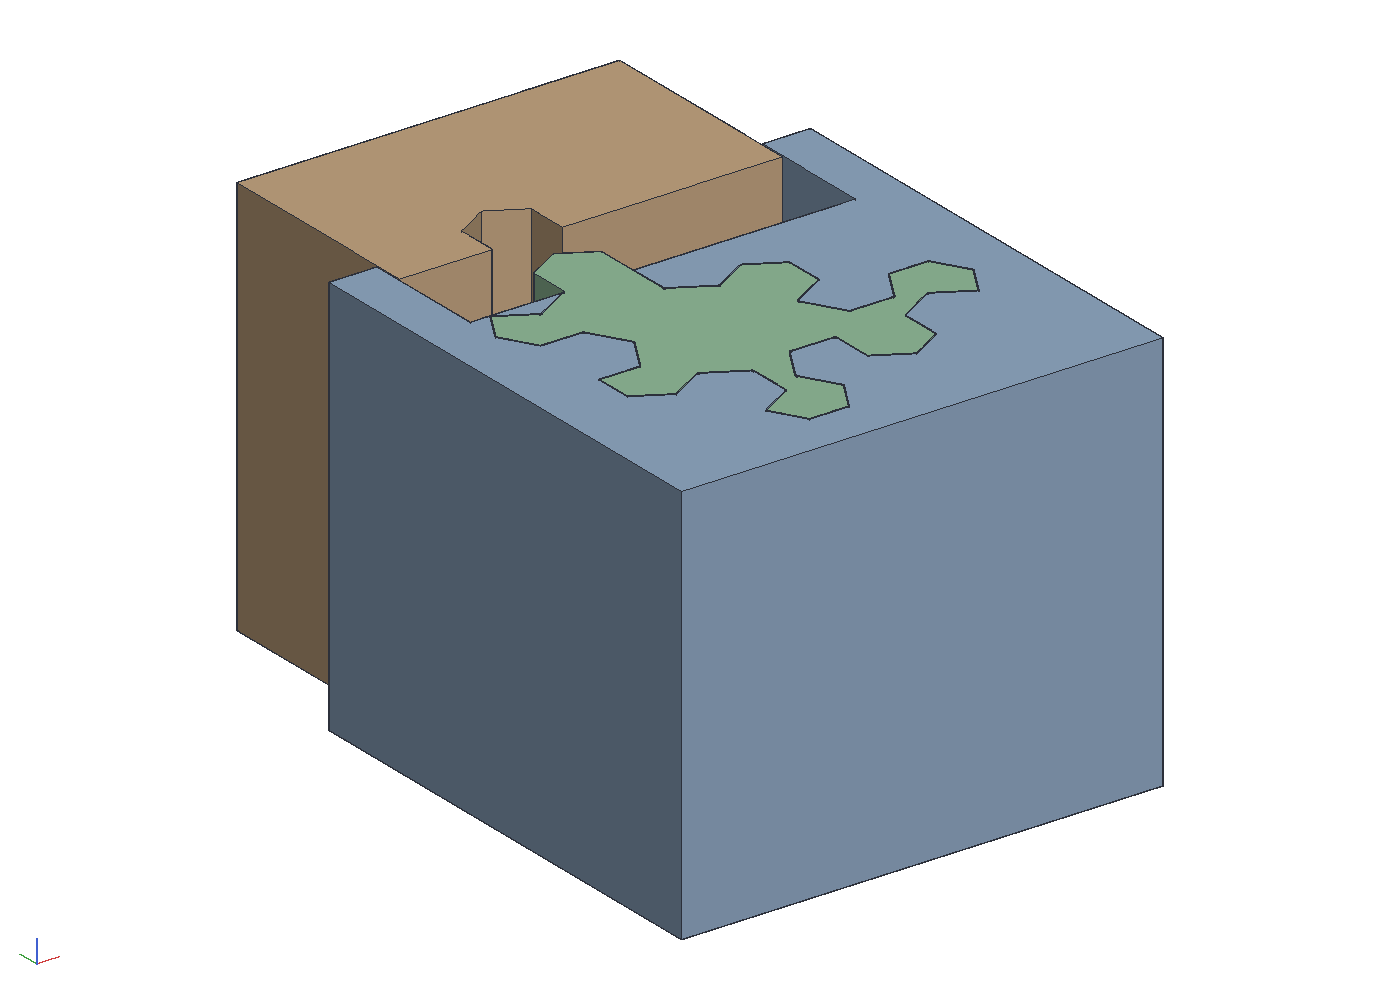
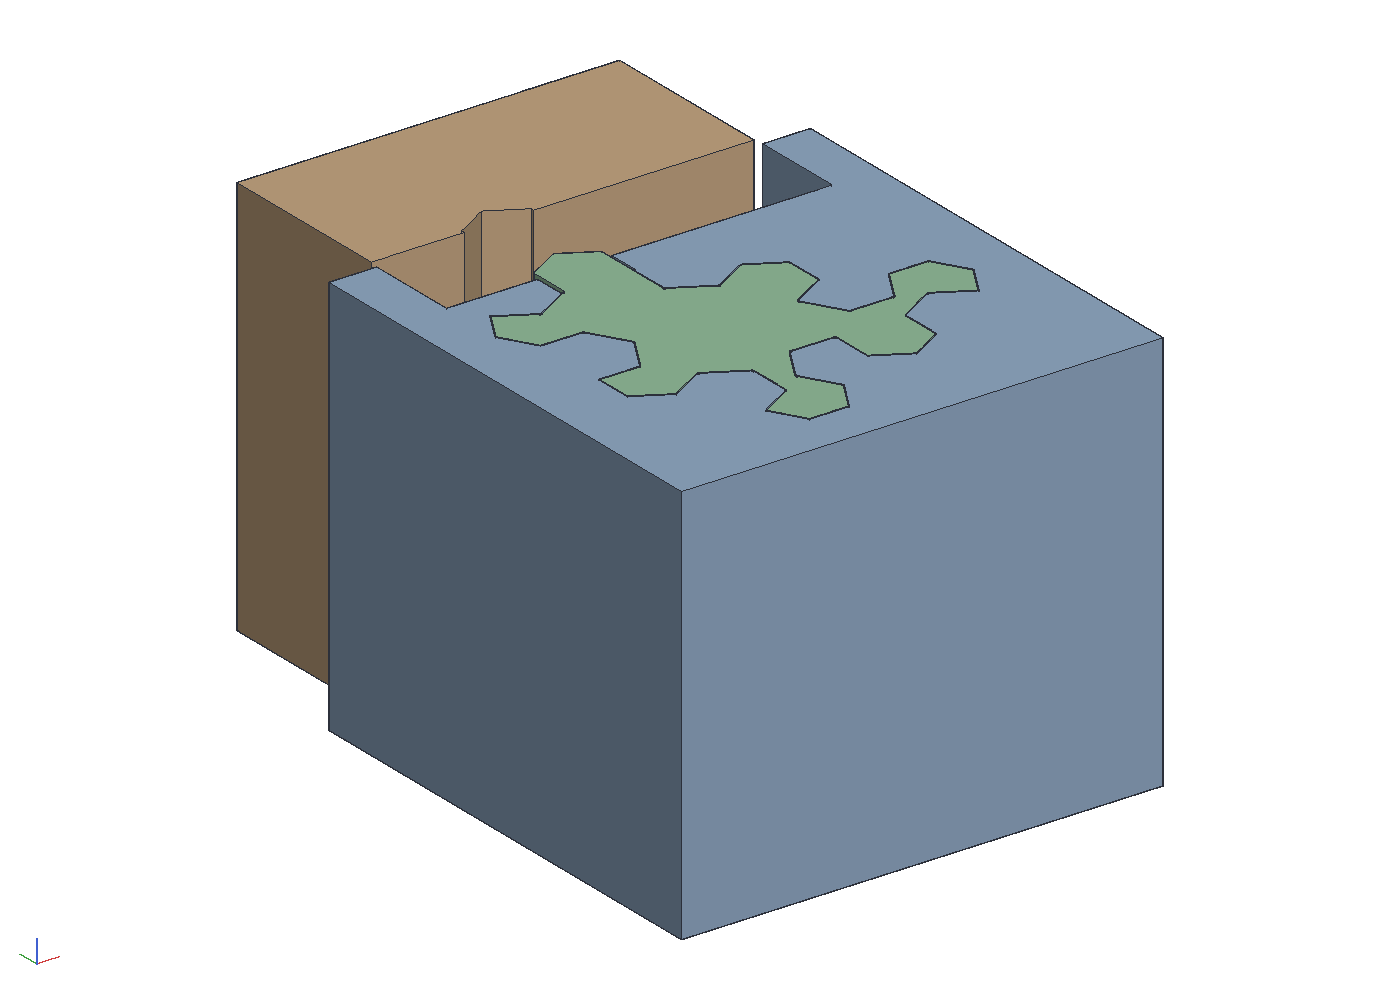
spectre-cauls: shoulders beside the bump so the cradle's lip over a bay is never thin
Measuring the cradle under the plunger's flat found the first cut's
flaw: the slot above the split was the outline's full width, so where
a bay reaches up to just under the split the lip over it was 0.04 mm
thick. The cradle now rises 4 mm above the split in two shoulders
outside the chord, the bump's own sides stand in the slot between
them, and the plunger's flat stops a millimetre above the shoulders
when its notch seats on the bump's roof; that millimetre is its
travel. A tongue on the plunger was tried and dropped: the bump's
sides are vertical for 5.4 mm, so the negative cut it to a fin. The
build refuses a turn whose bump narrows below the flat. The test
measures the lip over every bay outside the chord (4.08 mm now) and
takes the plunger's area from the JSON. README and DECISIONS say why.

Claude-Session: https://claude.ai/code/session_01J4ziSXStmHDedjoitSWECi

Changed region(s): [[0.43, 0.124, 0.6143, 0.279], [0.3071, 0.217, 0.3993, 0.341]]

diff --git a/examples/spectre-cauls/build.py b/examples/spectre-cauls/build.py
@@ -45,6 +45,8 @@ CLEAR = 0.1                                     # the pocket past the tile's out
 PLAY = 0.15                                     # the plunger short of the cradle's walls, each side
 WALL, FLOOR = 6.0, 6.0                          # the cradle round the pocket
 GUIDE = 8.0                                     # the cradle's walls above the bundle's top, which guide the plunger
+SHOULDER = 4.0                                  # outside the chord the cradle rises this far above the split: the lip over a bay is never thin
+FLAT_CLEAR = 1.0                                # the plunger's flat underside stops this far above the shoulders when its notch is seated: its travel
 FLANGE = 12.0                                   # the plunger above the walls when it is down, for the clamps
 LENGTH = 50.0                                   # a short caul; three along a 200 mm stick
 LIFT = 12.0                                     # the lid drawn this far up, off the bundle
@@ -232,26 +234,39 @@ def main():
     mcp.call("create_document", {"name": "cauls"})
     mcp.call("apply", {"ops": [{"type": "rename_document", "name": "Spectre tile stick cauls"}, {"type": "rename_tab", "tab": 1, "name": "Base"}]})
     # The base: a block round the pocket. The pocket is the part of the
-    # outline below the split, exactly, and above the split a slot the
-    # outline's full width with vertical walls, which the lid slides in.
+    # outline below the split, exactly; above the split, between the
+    # chord's ends, a slot the chord wide (plus the play) for the
+    # plunger's tongue; and outside the chord the cradle keeps its
+    # material up to a shoulder, so the lip over a bay just under the
+    # split is never thin; above the shoulders a slot the outline's
+    # full width with vertical walls, which the plunger slides in.
     base = Part(mcp, 1, "Base")
     sk = base.sketch("top", 0.0, "block")
     base.rect(sk, (xlo - WALL, bottom - FLOOR), (xhi + WALL, walls_top))
     base.extrude(sk, LENGTH, name="cradle")
     sk = base.sketch("top", LENGTH + 1.0, "pocket")
     seq = ring(loose, s, lower=True)
-    base.polygon(sk, seq + [(right, s), (xhi, s), (xhi, walls_top + 1.0), (xlo, walls_top + 1.0), (xlo, s), (left, s)])
+    sh = s + SHOULDER
+    base.polygon(sk, seq + [(right, s), (right + PLAY, s), (right + PLAY, sh), (xhi, sh), (xhi, walls_top + 1.0),
+                            (xlo, walls_top + 1.0), (xlo, sh), (left - PLAY, sh), (left - PLAY, s), (left, s)])
     base.cut(sk, LENGTH + 2.0, direction="reverse", name="pocket, through")
     base_bodies = base.bodies()
-    # The lid: a plunger the slot wide less the play, its underside the
-    # negative of the part above the split, which only narrows going
-    # up, so it comes down onto the bundle; beside that it stops a play
-    # above the split, over the base's own material.
+    # The lid: a plunger the slot wide less the play, its flat underside
+    # a millimetre above the shoulders, with the negative of the part
+    # above the split cut into it: that part only narrows going up, so
+    # the plunger comes down onto the bundle. The bump's own sides stand
+    # between the shoulders; its roof is what the plunger seats on, so
+    # the bump must stay the chord's full width up past the flat, and
+    # the millimetre under the flat is the plunger's travel.
     text = mcp.call("apply", {"ops": [{"type": "add_part_studio", "name": "Lid"}]})
     lid_tab = int(re.search(r"tab (\d+)", text).group(1))
     lid = Part(mcp, lid_tab, "Lid")
+    flat = sh + FLAT_CLEAR
+    at_flat = crossings(loose, flat)
+    if len(at_flat) != 2 or at_flat[0] > left + 0.5 or at_flat[1] < right - 0.5:
+        raise SystemExit(f"the bump narrows below the plunger's flat: {at_flat} at {flat:.2f}, chord {left:.2f}..{right:.2f}")
     sk = lid.sketch("top", 0.0, "plunger")
-    lid.rect(sk, (xlo + PLAY, s + PLAY + LIFT), (xhi - PLAY, walls_top + FLANGE + LIFT))
+    lid.rect(sk, (xlo + PLAY, flat + LIFT), (xhi - PLAY, walls_top + FLANGE + LIFT))
     lid.extrude(sk, LENGTH, name="plunger")
     sk = lid.sketch("top", LENGTH + 1.0, "negative")
     seq = ring(loose, s, lower=False)
@@ -297,18 +312,20 @@ def main():
         "edge": EDGE, "turn": deg, "split": s, "bottom": bottom, "top": top, "chord": [left, right], "lid_share": share,
         "clear": CLEAR, "play": PLAY, "wall": WALL, "floor": FLOOR, "guide": GUIDE, "flange": FLANGE, "length": LENGTH, "lift": LIFT,
         "tile_area": tile["area"], "outline": poly, "loose": loose,
-        "pocket_area": area(clip(loose, s, True)) + (xhi - xlo) * (walls_top - s),
-        # the part of the negative that is inside the plunger: the strip
-        # under its bottom and anything past its sides are not cut from it
-        "negative_area": area(clip_half(clip_half(clip_half(clip(loose, s, False), lambda p: p[0] >= xlo + PLAY), lambda p: p[0] <= xhi - PLAY), lambda p: p[1] >= s + PLAY)),
+        "pocket_area": area(clip(loose, s, True)) + (right - left + 2 * PLAY) * SHOULDER + (xhi - xlo) * (walls_top - s - SHOULDER),
+        # the part of the negative that is inside the plunger: above its
+        # flat, where the bump narrows going up, so nothing past its sides
+        "negative_area": area(clip_half(clip(loose, s, False), lambda p: p[1] >= flat)),
         "block": [[xlo - WALL, bottom - FLOOR], [xhi + WALL, walls_top]],
-        "plunger": [[xlo + PLAY, s + PLAY], [xhi - PLAY, walls_top + FLANGE]],
+        "shoulder": SHOULDER, "flat_clear": FLAT_CLEAR,
+        "plunger": [[xlo + PLAY, flat], [xhi - PLAY, walls_top + FLANGE]],
+        "plunger_area": (xhi - xlo - 2 * PLAY) * (walls_top + FLANGE - flat),
         "gap": GAP, "inner": INNER, "pocket": POCKET, "cut_list": cut_list, "tiles": lid_sticks["tiles"],
         "bodies": {"base": base_bodies, "lid": lid_bodies, "stick": stick_bodies, "template": plate},
     }
     with open(os.path.join(OUT, "cauls.json"), "w") as f:
         json.dump(numbers, f, indent=1)
-    print(f"base {xhi - xlo + 2 * WALL:.0f} x {walls_top - bottom + FLOOR:.0f} x {LENGTH:.0f}, lid {xhi - xlo - 2 * PLAY:.0f} x {walls_top + FLANGE - s - PLAY:.0f} x {LENGTH:.0f}; template {len(plate)} body, {lid_sticks['tiles']} pockets")
+    print(f"base {xhi - xlo + 2 * WALL:.0f} x {walls_top - bottom + FLOOR:.0f} x {LENGTH:.0f}, lid {xhi - xlo - 2 * PLAY:.0f} x {walls_top + FLANGE - s - 1.0:.0f} x {LENGTH:.0f}; template {len(plate)} body, {lid_sticks['tiles']} pockets")
 
 
 if __name__ == "__main__":

diff --git a/crates/ok-render/tests/spectre_cauls.rs b/crates/ok-render/tests/spectre_cauls.rs
@@ -63,8 +63,7 @@ fn the_cradle_and_the_plunger_regenerate_to_their_profiles() {
     let block = pts(&n["block"]);
     let block_area = (block[1].0 - block[0].0) * (block[1].1 - block[0].1);
     let pocket = n["pocket_area"].as_f64().unwrap();
-    let plunger = pts(&n["plunger"]);
-    let plunger_area = (plunger[1].0 - plunger[0].0) * (plunger[1].1 - plunger[0].1);
+    let plunger_area = n["plunger_area"].as_f64().unwrap();
     let negative = n["negative_area"].as_f64().unwrap();
     for (name, want) in [
         ("Base", (block_area - pocket) * length),
@@ -133,6 +132,38 @@ fn the_lid_takes_the_part_of_the_tile_that_narrows_upward() {
     let xhi = loose.iter().map(|p| p.0).fold(f64::NEG_INFINITY, f64::max);
     assert!((plunger[0].0 - xlo - play).abs() < 1e-9 && (xhi - plunger[1].0 - play).abs() < 1e-9);
     assert!(plunger[0].1 > s);
+    // The cradle's lip over a bay outside the chord: at least the
+    // shoulder's height, everywhere; the first cut of these cauls had
+    // it 0.04 mm thick where the chord's left end met a bay.
+    let shoulder = n["shoulder"].as_f64().unwrap();
+    assert!(shoulder >= 3.0, "{shoulder}");
+    let mut thinnest = f64::INFINITY;
+    for k in 1..400 {
+        let x = xlo + (xhi - xlo) * k as f64 / 400.0;
+        if x >= chord[0] - play && x <= chord[1] + play {
+            continue;
+        }
+        let top = ys_at(&loose, x)
+            .into_iter()
+            .filter(|&y| y <= s)
+            .fold(f64::NEG_INFINITY, f64::max);
+        if top.is_finite() {
+            thinnest = thinnest.min(s + shoulder - top);
+        }
+    }
+    println!("the lip over a bay is at least {thinnest:.2} mm");
+    assert!(thinnest >= shoulder - 1e-9, "{thinnest}");
+}
+
+/// Where a vertical line at `x` crosses the polygon.
+fn ys_at(poly: &[(f64, f64)], x: f64) -> Vec<f64> {
+    let m = poly.len();
+    (0..m)
+        .filter_map(|i| {
+            let (p, q) = (poly[i], poly[(i + 1) % m]);
+            ((p.0 > x) != (q.0 > x)).then(|| p.1 + (x - p.0) * (q.1 - p.1) / (q.0 - p.0))
+        })
+        .collect()
 }
 
 /// The template the sliced tiles are laid out on: one body, a pocket

diff --git a/examples/spectre-cauls/README.md b/examples/spectre-cauls/README.md
@@ -64,15 +64,22 @@ above and a bay under an overhang is reached by sliding the stick in
 sideways before the sticks above it are placed; and the plunger's
 force spreads through the lattice at 60°, so by the floor it covers
 the tile's width. The plunger is the slot's full width for stiffness
-and the clamps, with the bump's negative in its middle; beside the
-bump it stops a play above the split, over the cradle's own material.
+and the clamps, with the bump's negative cut into its flat underside.
+Beside the bump the cradle rises 4 mm above the split in two
+shoulders, so its lip over a bay just under the split is never thin
+(the first version had that lip 0.04 mm thick at one spot); the bump's
+sides, which stand straight up from the chord for 5.4 mm, fill the
+slot between them, and the plunger's flat stops a millimetre above the
+shoulders when its notch seats on the bump's roof: that millimetre is
+its travel. Nothing in the cauls flexes; the squeeze is the pocket's
+clearance and the glue lines.
 
 | | |
 |---|---|
 | turn | 330°, split 38.0 mm up of the tile's 45.9 |
 | pocket | the eroded outline plus 0.1 mm each side |
 | cradle | 60 x 60 x 50 mm, walls 6, floor 6, the walls 8 above the bundle |
-| plunger | 48 x 28 x 50, 0.15 short of the walls each side, 12 above them when down |
+| plunger | 48 x 27 x 50, 0.15 short of the walls each side, 12 above them when down |
 | per stick | three of each along a 200 mm stick, like the ladder's stands |
 
 The tile's mirror image needs no second set: a prism's mirror is the
@@ -130,6 +137,7 @@ its pocket and the plunger's is its block less the bump's negative, at
 the length; the pocket's lower part and the negative together are the
 eroded tile plus the clearance; the part of the outline above the
 split only narrows going up, within the slot; the plunger fits the
-slot with its play; the template regenerates to one body with a pocket
+slot with its play and the cradle's lip over every bay is at least the
+shoulder's height; the template regenerates to one body with a pocket
 floor per tile and the trim scribe in its floors and ridges; the line sample strip is three samples long at the three widths; and the cut list is a few shapes, triangles the
 commonest, every triangle equilateral and every half a 30-60-90.

diff --git a/docs/DECISIONS.md b/docs/DECISIONS.md
@@ -1091,6 +1091,19 @@ the stick in before the ones above it, and the plunger's force
 spreads through the lattice at 60°. The plunger is the slot's full
 width for the clamps, with the bump's negative in its middle.
 
+The owner asked what the cradle's material under the plunger's flat
+was for, expecting a flexure; it is not one, and measuring it found
+the first cut's flaw: the slot above the split was the outline's full
+width, so where a bay reaches up to just under the split the cradle's
+lip over it was 0.04 mm thick. Now the cradle rises 4 mm above the
+split in two shoulders outside the chord, the bump's sides stand in
+the slot between them, and the plunger's flat stops a millimetre
+above the shoulders when its notch seats on the bump's roof. Rejected:
+a tongue on the plunger the chord wide going down between the
+shoulders, because the bump's sides are vertical for 5.4 mm above the
+chord, so the negative cut the tongue away to a fin. Nothing in the
+cauls flexes; the squeeze is the pocket's clearance and the glue lines.
+
 The owner then settled the lid's construction: the tiles stay
 separate units, so a later version can push them, laid out on a
 raised template at their spacing, taped, and glued down to a
